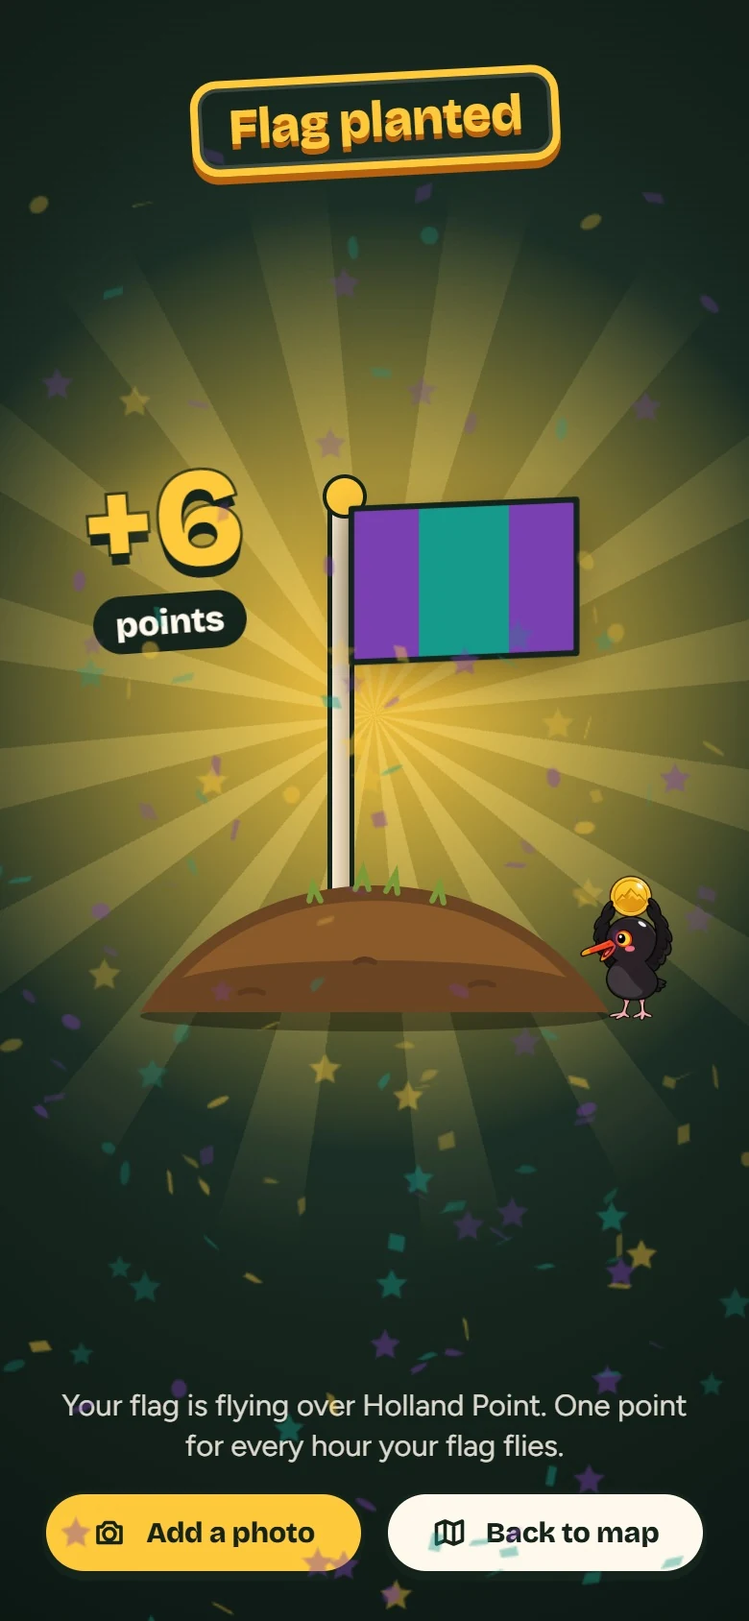
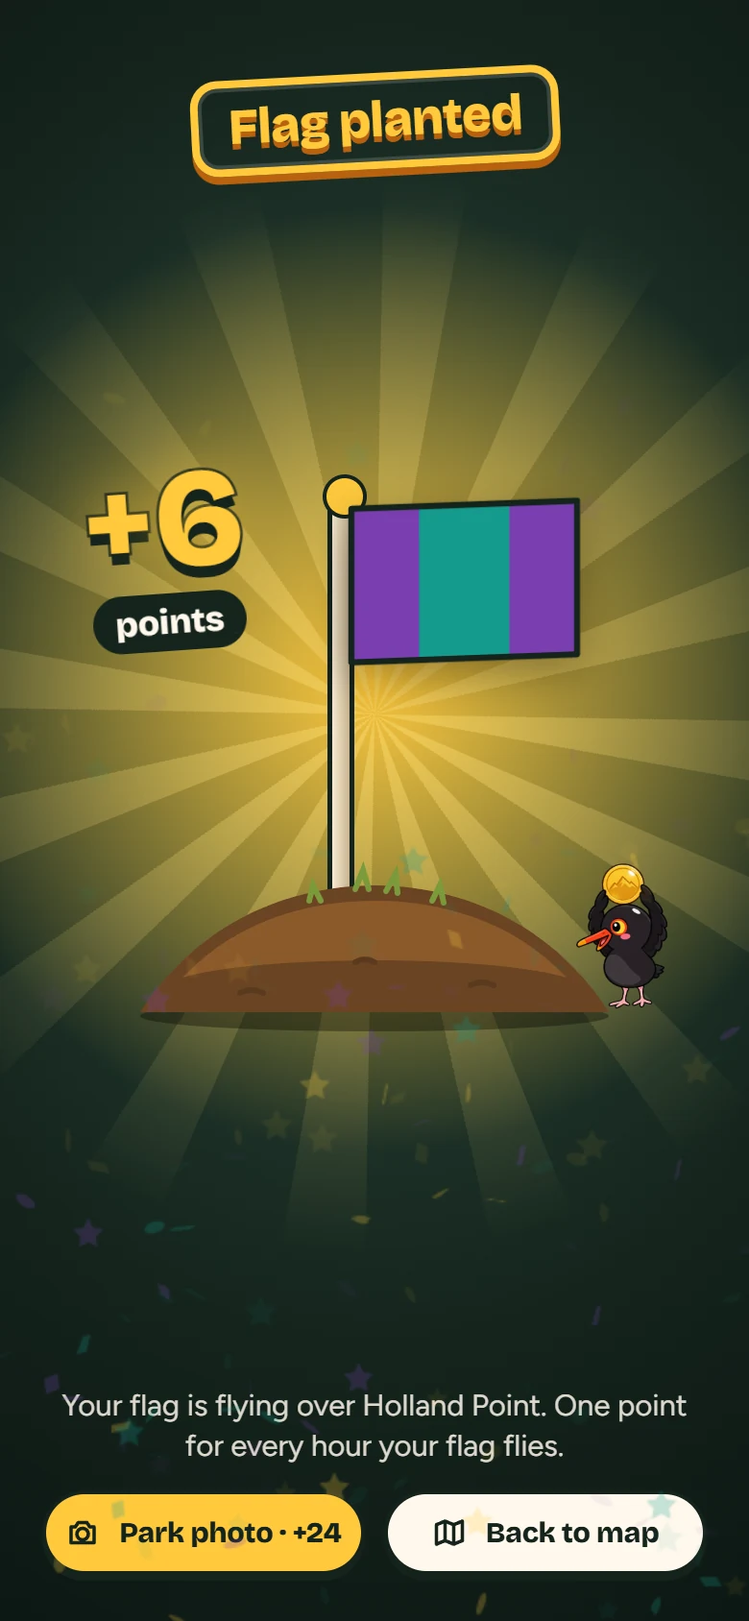
Walkers take parks: drop crews and personal photos from the landing
The app retired crews and every photo except the founder's photo of a park
(NathanPannell/parkdex#232, live in production at 7d2eba3), so the landing
page promised features that no longer exist.

- Homepage: step 4 "Bring your crew" becomes "Walk it again." with a new
  screen of a held park and its "Visit your flag" button. Step 3 says
  "another walker's park".
- App screens recaptured from parkdex main at 7d2eba3 on a local stack: the
  hero result and the plant, take and founder loops no longer show "Add a
  photo" or "Show crew code". The crew screen and loop are removed.
- Privacy policy, checked against the app's code on main: crews are retired
  (old memberships kept with the flag's history, handles no longer shown),
  the founder's photo is the only photo you take, visit photos from before
  October 22, 2026 stay private on the device and in R2 until account
  deletion, no new feedback screenshots, no park_claimed usage event.
- Delete-account page and the landing PRODUCT.md follow the same change.
- Tests: the homepage has no crew copy and every app screen it uses exists;
  the privacy policy no longer describes crews or visit photos as live.

diff --git a/privacy/index.html b/privacy/index.html
@@ -34,7 +34,7 @@
 
         <section aria-labelledby="scope-title">
           <h2 id="scope-title">Who this covers</h2>
-          <p>This policy covers the Parkdex web app, the public Parkdex Android app, and this landing page. It describes Parkdex as of app version 1.5.0.</p>
+          <p>This policy covers the Parkdex web app, the public Parkdex Android app, and this landing page. It describes Parkdex as of the October 22, 2026 app update, which retired crews and visit photos.</p>
           <p>Parkdex is made by Nathan Pannell. For privacy questions or help with your data, email <a href="mailto:contact@nathanpannell.com">contact@nathanpannell.com</a>.</p>
         </section>
 
@@ -47,8 +47,8 @@
           <h3>Your handle and what other players see</h3>
           <p>To plant flags you choose a handle, the name other players see, and a flag design. Before a handle is accepted it goes through the automated check described below.</p>
           <p>Your handle, flag, score, the badges you wear on your flag and the parks where your flag flies are public. Anyone can see them on the leaderboard and the park map, including people who are not signed in. Guest handles are public in the same way. If you found a park, its page shows your handle as founder, the founding date and your founding photo as the park’s cover.</p>
-          <p>When you join a crew at a park, Parkdex stores your membership, when you joined and the visit you joined with. Signed-in players can see the handles of a park’s crew members.</p>
-          <p>Friends you add by code or link, or crewmates you add by handle soon after a crew, see your handle, your flag and how many different parks you visited this week. They do not see which parks.</p>
+          <p>Parkdex no longer has crews. If you joined a crew before October 22, 2026, Parkdex keeps that membership, when you joined and the visit you joined with as part of the flag’s history. Other players no longer see crew members’ handles.</p>
+          <p>Friends you add by code or link see your handle, your flag and how many different parks you visited this week. They do not see which parks.</p>
           <h3>Your places and visits</h3>
           <p>Parkdex stores the places you save, your collections, visit dates, trail completions, the flags you plant and hold, and your badges so you can return to your collection and play the game.</p>
           <p>If you propose a park that is missing from the map, Parkdex stores its name, your note, the pin, any outline you draw, and the app version and platform you used. Proposals are not linked to your account.</p>
@@ -59,17 +59,17 @@
           <p>A successful founding does not keep your position. If the automated photo check rejects your founding photo or cannot decide, Parkdex keeps the photo, your position and the park outline for 24 hours so you can ask for a review. If you ask, they are copied into your review request. The photo is removed 90 days after the decision. The position and the rest of the request stay until your account is deleted.</p>
           <p>Your last known position is also kept on your device so the map can open where you were. You can change location permission in your device settings.</p>
           <h3>Photos</h3>
-          <p>When you save a visit photo, Parkdex creates a resized JPEG for your postcard. The stored JPEG is re-encoded without the original embedded photo metadata, such as GPS tags. Visit photos are stored privately.</p>
-          <p>A founding photo is checked and, once the park is founded, becomes the park’s public cover. Embedded photo metadata is removed before it is stored. Anyone can view it on the park page.</p>
+          <p>The only photo you take in Parkdex is the founding photo of a park. A founding photo is checked and, once the park is founded, becomes the park’s public cover. Embedded photo metadata is removed before it is stored. Anyone can view it on the park page.</p>
+          <p>Parkdex no longer takes visit photos, and the app no longer shows visit photos saved before October 22, 2026. Those older photos stay on your device. If you were signed in, a resized JPEG of each, re-encoded without embedded photo metadata such as GPS tags, stays in Parkdex’s private photo storage, and one still waiting to upload from before then can finish uploading. The stored copies are deleted with your account.</p>
           <h3>Automated checks</h3>
           <p>Parkdex uses OpenRouter to run automated content checks with an AI model. OpenRouter passes the content to the model’s provider, which is OpenAI by default. Founding photos are sent with the park’s name and kind. Handles are sent on their own. Park proposals are sent with their name, note, pin and nearby map context. Parkdex does not send your account identifier or email with these checks. The result of a check is stored with the park, photo check, review request or proposal it applies to.</p>
           <h3>Analytics and diagnostics</h3>
           <p>Parkdex uses PostHog for product analytics, to understand how the app is used and to find problems. When analytics is on, the app loads PostHog, which records the screens you view, taps and clicks, and named events such as starting to found a park. PostHog also records basic device details, such as the operating system, device type and screen size. The app’s PostHog setup allows session recordings of the app screen. Everything typed into fields is masked, but other text on screen, such as your handle or the email shown on your account screen, can appear in a recording.</p>
           <p>Each event carries a random installation identifier created by the app, the app version and build, and whether you use the web or Android app. After you sign in, events are also linked to your account identifier. PostHog receives your network address with app events and can use it to estimate your approximate location, such as your city and country. PostHog stores this data in the United States.</p>
-          <p>The app also sends Parkdex its own usage events when you view a park, open directions or claim a park, with the installation identifier, a session identifier and choices such as the maps app and travel mode. The Parkdex server also records each request: the route, its timing and result, your account identifier or installation identifier, the app version and any park involved. These records are kept in the Parkdex database for 90 days. Changes and game events from them are also sent to PostHog. Parkdex does not delete data from PostHog automatically.</p>
+          <p>The app also sends Parkdex its own usage events when you view a park or open directions, with the installation identifier, a session identifier and choices such as the maps app and travel mode. The Parkdex server also records each request: the route, its timing and result, your account identifier or installation identifier, the app version and any park involved. These records are kept in the Parkdex database for 90 days. Changes and game events from them are also sent to PostHog. Parkdex does not delete data from PostHog automatically.</p>
           <p>Parkdex does not add your photos or coordinates to analytics events. The installation identifier is not your Android ID or advertising ID. Parkdex has no advertising SDKs, and there is currently no in-app setting to turn analytics off.</p>
           <h3>Feedback from the app</h3>
-          <p>If you send feedback from the app, Parkdex stores your message, an email address if you add one, and a screenshot if you attach one. It also stores the app version, build, platform, screen and the park you were looking at. Screenshots are stored without embedded metadata.</p>
+          <p>If you send feedback from the app, Parkdex stores your message and an email address if you add one. New feedback can’t include a screenshot, but a screenshot already saved with an unsent draft can still be sent with it. Parkdex also stores the app version, build, platform, screen and the park you were looking at. Screenshots are stored without embedded metadata.</p>
           <p>Resend emails Nathan a notification with your message. It includes your email address only if you agree to be contacted, and it can send you a receipt. Feedback is not linked to your account, so deleting your account does not remove it. A report is deleted 90 days after Nathan archives it; until then it is kept.</p>
           <h3>Information on your device</h3>
           <p>Parkdex keeps sign-in information, your journal, preferences and pending uploads in browser or app-private storage. Guest progress uses a separate collection key. Pending photo copies let you retry an interrupted upload and are cleared after upload or sign-out.</p>
@@ -81,7 +81,7 @@
         <section aria-labelledby="providers-title">
           <h2 id="providers-title">Services that run Parkdex</h2>
           <p>Vercel hosts the websites and the app API, and Neon stores account, game, collection and feedback information. The Android beta and App Store waitlists use a separate Neon database.</p>
-          <p>Resend delivers account verification, password-recovery and feedback emails. Google handles Google sign-in when you choose it. The Parkdex Android app stores visit photos privately with Cloudflare R2 through the Parkdex API. Cloudflare also runs the daily job that removes expired data.</p>
+          <p>Resend delivers account verification, password-recovery and feedback emails. Google handles Google sign-in when you choose it. Visit photos saved before October 22, 2026 are stored privately with Cloudflare R2 through the Parkdex API. Cloudflare also runs the daily job that removes expired data.</p>
           <p>PostHog provides product analytics. OpenRouter runs the automated content checks. OpenStreetMap’s Nominatim service and public Overpass API servers provide park outlines when you found a park. Map tiles are served from Parkdex’s own storage. Directions open in Google Maps or Apple Maps with the park’s location.</p>
           <p>These services process information to provide hosting, storage, email, sign-in, analytics, content checks and maps. Hosting, storage, analytics and content checks can be outside Canada. Providers may keep their own operational or security logs.</p>
           <p>Parkdex does not sell your information or use it for advertising.</p>
@@ -92,7 +92,7 @@
           <p>Your account and collection have no automatic expiry. They remain until you remove the relevant information or your account-deletion request is fulfilled. Sign-in and verification tokens have expiry limits, but token expiry is not account deletion.</p>
           <p>A guest account whose session has ended, because you signed out or did not open Parkdex for a year, is deleted automatically 30 days later. Uninstalling the app does not end the session by itself.</p>
           <p>You can delete your account in the app, or <a href="/delete-account/">request account deletion</a> without installing the Android app. Nathan handles account-access or deletion requests that the automated flow cannot complete.</p>
-          <p>Account deletion removes your account, authentication records, handle, flag, badges, the flags you hold, your visits, collections, crew memberships, friend code and friendships, photo checks and review requests, and your photo references. Photo files are deleted from private storage. If storage deletion fails, a deletion record remains for manual cleanup. Nathan will not confirm full completion until that cleanup is verified.</p>
+          <p>Account deletion removes your account, authentication records, handle, flag, badges, the flags you hold, your visits, collections, any crew memberships from before October 22, 2026, friend code and friendships, photo checks and review requests, and your photo references. Photo files are deleted from private storage. If storage deletion fails, a deletion record remains for manual cleanup. Nathan will not confirm full completion until that cleanup is verified.</p>
           <p>Parks you founded stay on the map without your name, and their cover photo is removed. Park proposals stay, because they are not linked to your account.</p>
           <p>Some information stays after account deletion. Server request and usage records remain until they reach 90 days old. Analytics already sent to PostHog is not deleted. Feedback you sent stays until it is archived and purged. A deletion record with your account identifier and the deletion dates is kept to track the request.</p>
           <p>Deletion does not erase a separate guest history, files you downloaded or copies you shared elsewhere. Account-owned local data is cleared on the device completing the in-app deletion. Copies on an offline device cannot be erased remotely while it is offline; you can clear that device’s app data.</p>

diff --git a/index.html b/index.html
@@ -103,17 +103,17 @@
                 <span class="step__number" aria-hidden="true">3</span>
                 <div class="step__copy">
                   <h3>Take theirs.</h3>
-                  <p>Plant on a friend’s park to take it and earn points for the steal.</p>
+                  <p>Plant on another walker’s park to take it and earn points for the steal.</p>
                 </div>
                 <figure class="step__phone"><span class="device-frame device-frame--iphone-16-max device-frame--parkdex-asset"><span class="device-frame__screen"><span class="device-frame__media"><img src="/images/app/app-take.webp" width="780" height="1688" loading="lazy" alt="Taking Moss Rocks from @salish_sky: your flag goes up in place of theirs" data-motion="/images/app/motion/take.webp" /></span></span><span class="device-frame__hardware" aria-hidden="true"><img src="/frames/parkdex-phone-frame.webp" width="1252" height="2604" alt="" /></span></span></figure>
               </li>
-              <li class="step" data-step="crew">
+              <li class="step" data-step="walk">
                 <span class="step__number" aria-hidden="true">4</span>
                 <div class="step__copy">
-                  <h3>Bring your crew.</h3>
-                  <p>Arrive together and hold the park as a crew.</p>
+                  <h3>Walk it again.</h3>
+                  <p>Visit your flag on tomorrow’s walk to keep it flying.</p>
                 </div>
-                <figure class="step__phone"><span class="device-frame device-frame--iphone-16-max device-frame--parkdex-asset"><span class="device-frame__screen"><span class="device-frame__media"><img src="/images/app/app-crew.webp" width="780" height="1688" loading="lazy" alt="Bring your crew: a QR code and crew code for friends to join the flag at Holland Point" data-motion="/images/app/motion/crew.webp" /></span></span><span class="device-frame__hardware" aria-hidden="true"><img src="/frames/parkdex-phone-frame.webp" width="1252" height="2604" alt="" /></span></span></figure>
+                <figure class="step__phone"><span class="device-frame device-frame--iphone-16-max device-frame--parkdex-asset"><span class="device-frame__screen"><span class="device-frame__media"><img src="/images/app/app-walk.webp" width="780" height="1688" loading="lazy" alt="Clover Point Park, held for 12 days: your park, with a Visit your flag button" data-motion="/images/app/motion/walk.webp" /></span></span><span class="device-frame__hardware" aria-hidden="true"><img src="/frames/parkdex-phone-frame.webp" width="1252" height="2604" alt="" /></span></span></figure>
               </li>
             </ol>
             <div class="play__stage" aria-hidden="true">
@@ -122,7 +122,7 @@
                   <img data-screen="go" src="/images/app/app-arrive.webp" width="780" height="1688" loading="lazy" alt="" data-motion="/images/app/motion/go.webp" />
                   <img data-screen="hold" src="/images/app/app-your-parks.webp" width="780" height="1688" loading="lazy" alt="" data-motion="/images/app/motion/hold.webp" />
                   <img data-screen="take" src="/images/app/app-take.webp" width="780" height="1688" loading="lazy" alt="" data-motion="/images/app/motion/take.webp" />
-                  <img data-screen="crew" src="/images/app/app-crew.webp" width="780" height="1688" loading="lazy" alt="" data-motion="/images/app/motion/crew.webp" />
+                  <img data-screen="walk" src="/images/app/app-walk.webp" width="780" height="1688" loading="lazy" alt="" data-motion="/images/app/motion/walk.webp" />
                 </span></span><span class="device-frame__hardware"><img src="/frames/parkdex-phone-frame.webp" width="1252" height="2604" alt="" /></span></span>
               </div>
             </div>

diff --git a/tests/privacy-copy.test.ts b/tests/privacy-copy.test.ts
@@ -6,8 +6,18 @@ const privacyPage = await readFile(new URL("../privacy/index.html", import.meta.
 
 test("privacy policy covers the public Android app and describes its photo storage", () => {
   assert.match(privacyPage, /This policy covers the Parkdex web app, the public Parkdex Android app, and this landing page\./);
-  assert.match(privacyPage, /The Parkdex Android app stores visit photos privately with Cloudflare R2 through the Parkdex API\./);
+  assert.match(privacyPage, /Visit photos saved before October 22, 2026 are stored privately with Cloudflare R2 through the Parkdex API\./);
   assert.doesNotMatch(privacyPage, /the test version being prepared for Android|The Android test version/i);
+});
+
+test("privacy policy describes crews and visit photos as retired, not as live features", () => {
+  assert.match(privacyPage, /Parkdex no longer has crews\./);
+  assert.match(privacyPage, /The only photo you take in Parkdex is the founding photo of a park\./);
+  assert.match(privacyPage, /Parkdex no longer takes visit photos/);
+  assert.doesNotMatch(
+    privacyPage,
+    /When you join a crew|crewmates you add|When you save a visit photo|postcard|claim a park|a screenshot if you attach one/,
+  );
 });
 
 test("privacy policy describes the App Store list and the Google-run Android beta", () => {
@@ -47,4 +57,5 @@ test("delete-account page lists what stays after deletion, like the privacy poli
   const deletePage = await readFile(new URL("../delete-account/index.html", import.meta.url), "utf8");
   assert.match(deletePage, /analytics already sent to PostHog and feedback you sent are not deleted/);
   assert.match(deletePage, /Parks you founded stay on the map without your name or cover photo\./);
+  assert.match(deletePage, /any crew memberships or visit photos from before October 22, 2026/);
 });

diff --git a/delete-account/index.html b/delete-account/index.html
@@ -53,7 +53,7 @@
 
           <section class="support-section" aria-labelledby="data-title">
             <h2 id="data-title">What is deleted</h2>
-            <p>Account deletion is permanent. It removes your Parkdex account, sign-in sessions, connected sign-in records, handle, flags, badges, crew memberships, friendships, saved collections, visits and associated photo records. Parks you founded stay on the map without your name or cover photo.</p>
+            <p>Account deletion is permanent. It removes your Parkdex account, sign-in sessions, connected sign-in records, handle, flags, badges, friendships, saved collections, visits, any crew memberships or visit photos from before October 22, 2026, and associated photo records. Parks you founded stay on the map without your name or cover photo.</p>
             <p>Private photo files are deleted from storage. If storage deletion fails, a record remains so that cleanup can be retried. We will not describe unfinished photo cleanup as complete.</p>
             <p>Separate guest history, downloaded or shared copies, and copies on offline devices are outside this account deletion. Server request records stay until they are 90 days old, analytics already sent to PostHog and feedback you sent are not deleted, and limited network-security records and provider backups or logs may remain. <a href="/privacy/#retention-title">Read the retention details</a>.</p>
           </section>

diff --git a/tests/home-copy.test.ts b/tests/home-copy.test.ts
@@ -1,0 +1,16 @@
+import assert from "node:assert/strict";
+import { existsSync, readFileSync } from "node:fs";
+import test from "node:test";
+
+const page = readFileSync(new URL("../index.html", import.meta.url), "utf8");
+
+test("the homepage pitches solo walkers, not the retired crews", () => {
+  assert.doesNotMatch(page, /crew/i);
+  assert.match(page, /data-step="walk"/);
+});
+
+test("every app screen on the homepage exists in public/", () => {
+  const paths = [...page.matchAll(/(?:src|data-motion)="(\/images\/app\/[^"]+)"/g)].map((match) => match[1]);
+  assert.ok(paths.length > 0);
+  for (const path of paths) assert.ok(existsSync(new URL(`../public${path}`, import.meta.url)), path);
+});

diff --git a/public/images/app/motion/README.md b/public/images/app/motion/README.md
@@ -1,45 +1,18 @@
 # Parkdex app motion clips for the landing page
 
-Recorded 2026-10-16 from `NathanPannell/parkdex-kip` at `origin/staging` **ba11e311b0d248584641a6711db11817190a103f** (#215). This is the same build, local data and accounts as the stills in `../app/`.
+Recorded 2026-10-22 from `NathanPannell/parkdex` at `origin/main` **7d2eba3** (#233), with the same build, local data and accounts as the stills in `../` (see that README for the stack, seed and flags). `leaderboard.webp` is older: recorded 2026-10-16 at `ba11e311` (#215).
 
-- **Clips:** animated WebP, 540x1170, looping forever (`loop: 0`). The first frame of each loop is captured from about the tenth of a second before the interaction starts. The last frame holds about 1 s before the loop restarts.
-- **Frame rate:** the frames are sampled at 11 fps. Frames that did not change are merged into one longer frame, so the effective average is 7.5 to 9.5 fps.
-- **Stills:** each clip has a `*-still.webp` at 780x1688 (WebP quality 88), taken from the full-resolution capture.
-
-## How they were made
-
-- **Stack:** everything ran locally. `npm run local:api` served the real API against a throwaway loopback PostgreSQL 18 database (`kip_qa_local`), and the Vite dev server ran on `http://127.0.0.1:5190`. Parks came from the public staging catalogue, and map tiles and park art from the public content CDN.
-- **Feature flags:** web build 0 had `crews`, `friends` and `parkProposals` on and **`badges` off**.
-- **Account:** signed in as the local seed account `tester1@example.test`, shown as `@fern_finn`. Every other player is a fictional `@example.test` row that exists only in that database.
-- **Friends tab:** for the Friends tab in `leaderboard.webp`, `@fern_finn` was made friends with oakbay_ollie, lark_and_lu, cedar_kai and beacon_bea in the local database.
-- **Interactions:** the plant and the take are real presses and holds in the app. After each recording, the local database was reset to the state of the stills.
-- **No overlays:** no demo overlays, toasts or Kip's Tips appear. Tips were dismissed before each recording started.
-- **Recording:** Playwright with chrome-headless-shell on GPU (ANGLE D3D11), a 390x844 phone viewport at device scale 2, an Android user agent and touch. Frames were grabbed with a CDP `Page.captureScreenshot` loop at about 16 to 25 fps.
-- **Why not screencast:** CDP screencast frames came out at the wrong size after the app's fullscreen request. The capture harness stubbed `requestFullscreen` so the viewport stays at 390x844.
-- **Hero clip:** removed; the hero now shows the still `app-planted.webp`.
-- **Assembly:** frames were resized with Lanczos and encoded with Pillow's libwebp (quality 70, 60 for the hero, keyframes every 4 to 5 frames). Inter-frame encoding keeps the dark plant scenes free of blocking.
+- **Clips:** animated WebP, 540x1170, looping forever, sampled at 11 fps, holding the last frame about 1 s. Each is under 1 MB: quality 70 for hold and walk, 67 for go, 66 for founder and 62 for take.
+- **Interactions:** the plant, take and visit are real taps in the app. The local database was re-seeded before each recording.
+- **Recording:** Playwright with Chromium, a 390x844 phone viewport at device scale 2, an Android user agent and touch.
 
 ## Files
 
-| File | What it shows | Duration | fps | Size | Alt text |
-| --- | --- | --- | --- | --- | --- |
-| `hero-still.webp` | The wide end frame | – | – | 155 KB | Same as above. |
-| `go.webp` | At the empty Holland Point: the "Welcome to Holland Point" arrival card, a tap on "Plant your flag", the press-and-hold ring filling, the flag slamming into the mound with dirt and confetti, the points counting up to +6 and "Flag planted". | 6.9 s | 11 | 883 KB | Arriving at Holland Point, the player presses and holds "Plant your flag". Their flag goes up and the screen says "Flag planted, +6 points". |
-| `go-still.webp` | The "Flag planted +6" result | – | – | 68 KB | "Flag planted", +6 points. "Your flag is flying over Holland Point." |
-| `hold.webp` | A tap on the score chip on the map opens My Dex > Your flags. The score card counts up to 690 points and the held parks slide in with their flag ages. | 3.8 s | 11 | 502 KB | Tapping the score chip opens Your flags: @fern_finn, 4 parks held, 690 points. Clover Point Park 12d, Beacon Hill Park 7d, Cecelia Ravine Park 5d, Summit Park 3d. |
-| `hold-still.webp` | The Your flags screen | – | – | 72 KB | Same as above. |
-| `take.webp` | **The takeover.** At Moss Rocks, "Take it from @salish_sky" with the hold ring filling. @salish_sky's flag is knocked out and spins away, @fern_finn's flag slams in, the points count to +13, and "You took Moss Rocks from @salish_sky" appears. | 6.7 s | 11 | 977 KB | The player holds "Take it from @salish_sky". The rival's flag is knocked off Moss Rocks and their own flag lands: "You took Moss Rocks from @salish_sky", +13 points. |
-| `take-still.webp` | Mid-takeover: @salish_sky's flag flying off the mound as @fern_finn's flag comes down | – | – | 42 KB | Take it from @salish_sky: the rival's flag tumbles off Moss Rocks while the player's flag comes down to replace it. |
-| `crew.webp` | A tap on the just-planted Holland Point park card opens the sheet: "Your flag · Planted today · protected 57 min · Just you so far". A tap on "Show crew code" slides up the crew code sheet with its QR code, code and countdown. | 4.9 s | 11 | 621 KB | Opening Holland Point and tapping "Show crew code": "Bring your crew", QR code, code C26-PYX, 57 min left. |
-| `crew-still.webp` | The crew code sheet | – | – | 69 KB | "Bring your crew", crew code C26-PYX for Holland Point, 57 min left, Share the link. |
-| `founder.webp` | The Holland Point sheet scrolls to "No founder yet" and "Become the founder +24". A tap starts the founding flow: a radar scan ("Checking you're inside Holland Point Park…"), then the park outline is highlighted with "You're in Holland Point Park" and "Take the photo". | 6.0 s | 11 | 902 KB | From the park sheet, "Become the founder, +24" opens the founding flow. It scans, highlights Holland Point Park's outline and offers "Take the photo". |
-| `founder-still.webp` | The outline highlighted, ready for the photo | – | – | 81 KB | Become the founder: "Take its photo to be the founder." You're in Holland Point Park. Button: Take the photo. |
-| `leaderboard.webp` | A tap on Leaders: the podium rises (1 @salish_sky 842, 2 @island_ivy 710, 3 @fern_finn 690) and the ranked list slides in. Then Friends (parks this week: @fern_finn (you) 2, @beacon_bea, @cedar_kai, @lark_and_lu, @oakbay_ollie 1 each) and back to Everyone. | 6.0 s | 11 | 875 KB | Leaderboard. Everyone: @salish_sky 842, @island_ivy 710, @fern_finn 690, then @cedar_kai 523, @gorge_runner 512, @wren_walks 283. Friends tab: parks this week, @fern_finn (you) first with 2. |
-| `leaderboard-still.webp` | The Everyone board | – | – | 82 KB | Leaderboard, Everyone: 1 @salish_sky 842 pts, 2 @island_ivy 710 pts, 3 @fern_finn 690 pts; @cedar_kai 523, @gorge_runner 512, @wren_walks 283, @lark_and_lu 212, @oakbay_ollie 180. |
-
-## Notes
-
-- Points tick up by the hour, so they are slightly higher than in `../app/` (690 rather than 686).
-- `go.webp` and `take.webp` run about 6.7 to 6.9 s, a little over the 6 s target. The hold itself takes 1.1 s and the result headline lands about 4 s after release, so cutting them shorter would drop the arrival or the result.
-- The take's per-part breakdown ("+4 for the take, +9 for those 9 days") is screen-reader only in this build, so the clip shows the +13 count-up.
-- The crew-join pennant raise needs a second signed-in device inside the park within the protected hour, so it was not recorded. `crew.webp` shows the crew code sheet instead.
+| File | What it shows | Duration | Size | Alt text |
+| --- | --- | --- | --- | --- |
+| `go.webp` | The "Welcome to Holland Point" arrival card, a tap on "Plant your flag", the flag slamming into the mound, points counting to +6, then "Flag planted" with "Park photo · +24" and "Back to map". | 6.9 s | 990 KB | Arriving at Holland Point, the player taps "Plant your flag". Their flag goes up and the screen says "Flag planted, +6 points". |
+| `hold.webp` | A tap on the score chip on the map opens My Dex › Your flags: the score counts up to 684 and the four held parks appear. | 4.0 s | 629 KB | Tapping the score chip opens Your flags: @fern_finn, 4 parks held, 684 points. Clover Point Park 12d, Beacon Hill Park 7d, Cecelia Ravine Park 5d, Summit Park 3d. |
+| `take.webp` | "Welcome to Moss Rocks" ("@salish_sky's flag has flown here for 9 days"), a tap on "Take it from @salish_sky", the rival's flag knocked out, @fern_finn's flag lands, +13, "You took Moss Rocks from @salish_sky". | 6.9 s | 984 KB | The player taps "Take it from @salish_sky". The rival's flag is knocked off Moss Rocks and their own flag lands: "You took Moss Rocks from @salish_sky", +13 points. |
+| `founder.webp` | The Holland Point page opens, a tap on "Become the founder +24", the scan ("Checking you're inside Holland Point Park…"), then the outline highlighted with "You're in Holland Point Park" and "Take the photo". | 6.0 s | 950 KB | From the park page, "Become the founder, +24" opens the founding flow. It scans, highlights Holland Point Park's outline and offers "Take the photo". |
+| `walk.webp` | Clover Point's page, a tap on "Visit your flag", then "Your flag is still flying", +1 point, "Clover Point is still yours." | 6.2 s | 540 KB | At Clover Point, held for 12 days, the player taps "Visit your flag": "Your flag is still flying", +1 point. |
+| `leaderboard.webp` | (2026-10-16) A tap on Leaders: the podium rises and the ranked list slides in, then the Friends tab and back to Everyone. | 6.0 s | 875 KB | Leaderboard. Everyone: @salish_sky 842, @island_ivy 710, @fern_finn 690, then @cedar_kai 523, @gorge_runner 512, @wren_walks 283. Friends tab: parks this week, @fern_finn (you) first with 2. |

diff --git a/public/images/app/README.md b/public/images/app/README.md
@@ -1,34 +1,33 @@
 # Parkdex app screenshots for the landing page
 
-Captured 2026-10-16 from `NathanPannell/parkdex-kip` at `origin/staging` **ba11e311b0d248584641a6711db11817190a103f** ("Record the Nova Scotia production load (2026-10-14) (#215)").
+Recaptured 2026-10-22 from `NathanPannell/parkdex` at `origin/main` **7d2eba3** (#233, which promoted #232: crews and personal photos retired, the park page rebuilt around one big button). `app-leaderboard.webp` is older: it was captured 2026-10-16 at `ba11e311` (#215) and shows nothing that has since changed.
 
 All files are 780x1688 WebP (quality 88): a 390x844 phone viewport at device scale 2, no browser chrome.
 
 ## How they were made
 
-- The app ran entirely on this machine: `npm run local:api` (the real API worker) against a throwaway loopback PostgreSQL 18 cluster (database `kip_qa_local`), with the Vite dev server on `http://127.0.0.1:5190` proxying `/api` to it. Parks came from the public staging catalogue snapshot, map tiles and park art from the public content CDN.
-- Feature flags came from a local `kip_app_config.builds` row for web build 0: `crews` on, `friends` on, `parkProposals` on, **`badges` off**. No badge shelf, unlocks or patches appear in any shot.
-- Signed in as the local seed account `tester1@example.test` (from `scripts/local-stack.seed.json`), with its handle changed to `fern_finn` in the local database. The other players (`oakbay_ollie` is seed account `tester2`; `salish_sky`, `island_ivy`, `cedar_kai`, `gorge_runner`, `wren_walks`, `lark_and_lu`, `beacon_bea` are extra `@example.test` rows) are fictional and exist only in that throwaway database.
-- Game history was seeded with SQL by calling the app's own `kip_game.record_visit_with_badges` and `kip_game.join_crew_with_badges` with backdated times, so flag ages, points and the Beacon Hill crew (oakbay_ollie, fern_finn, lark_and_lu) are computed by the real rules.
-- The plant and take were done in the app with a real hold-to-plant; the player's position was set through the app's saved last location (no demo-tools overlay). Kip's Tips were dismissed before each capture.
-- Capture: Playwright (`playwright-core`) driving chrome-headless-shell, Android Chrome user agent, `isMobile`/`hasTouch`, geolocation granted, `America/Vancouver` time zone; converted to WebP with sharp.
+- The app ran entirely on this machine: `npm run local:api -- --content` (the real API worker) against a throwaway loopback PostgreSQL 18 cluster (a `kip_qa_*` database), with the Vite dev server on `http://127.0.0.1:5190` proxying `/api` to it ([docs/local-stack.md](https://github.com/NathanPannell/parkdex/blob/main/docs/local-stack.md)). Parks came from the public staging catalogue, map tiles and park art from the public content CDN.
+- Feature flags came from a local `kip_app_config.builds` row for web build 0: `friends` and `parkProposals` on, `crews` and **`badges` off**. No badge shelf, unlocks or patches appear.
+- Signed in as the local seed account `tester1@example.test`, shown as `@fern_finn`. The other players (`salish_sky`, `island_ivy`, `cedar_kai`, `gorge_runner`, `wren_walks`, `lark_and_lu`, `oakbay_ollie`, `beacon_bea`) are fictional `@example.test` rows that exist only in that throwaway database.
+- Game history was seeded with the app's own `kip_game.record_visit_with_badges` and backdated times, so flag ages and points come from the real rules: @fern_finn holds Clover Point (12 days), Beacon Hill (7), Cecelia Ravine (5) and Summit (3); @salish_sky has held Moss Rocks for 9 days; Holland Point is empty and has no founder. The history was re-seeded before each capture.
+- The plant, take and visit were real taps in the app (one tap now starts them; there is no press-and-hold). The player's position was set through the app's saved last location. Kip's Tips were dismissed. The dev build's "Demo: teleport here" link, which hosted builds don't have, was hidden with injected CSS; nothing else was altered.
+- Capture: Playwright driving Chromium, Android Chrome user agent, `isMobile`/`hasTouch`, geolocation granted, `America/Vancouver` time zone; converted to WebP with sharp.
 
 ## Files
 
-`app-take.webp` (the take step's still) is a frame of the takeover animation; see `motion/README.md`. The moving loops for every homepage screen are in `motion/`.
-
+The moving loops for the homepage screens are in `motion/`.
 
 | File | Screen and state | Alt text |
 | --- | --- | --- |
-| `app-planted.webp` | Result right after planting at the empty Holland Point (the `go-still` frame from `motion/`). Used in the hero. | Flag planted: your flag flying over Holland Point, with Kip cheering beside it. |
-| `app-leaderboard.webp` | Leaders, Everyone tab: podium and ranked list. | Leaderboard, Everyone. 1 @salish_sky 840 pts, 2 @island_ivy 708 pts, 3 @fern_finn 686 pts; then @cedar_kai 521, @gorge_runner 511, @wren_walks 281, @lark_and_lu 209, @oakbay_ollie 179. |
-| `app-crew.webp` | Crew code sheet right after planting at Holland Point: QR code, 6-character code and the protected-hour countdown. | "Bring your crew" crew code for Holland Point: K4Z-D3P, 53 min left. "Anyone in the crew can show this code." Button: Share the link. |
-| `app-founder.webp` | Holland Point Park sheet just after planting: your flag (protected, Show crew code), "No founder yet" and the "Become the founder +24" prompt. | Holland Point Park. Your flag, planted today, protected · 53 min. No founder yet. "Become the founder: Take its first photo. It becomes the park's cover." +24. |
-| `app-your-parks.webp` | My Dex, Your flags tab: score card and the held parks with flag ages. | My Dex, Your flags. @fern_finn, 4 parks held, 686 points. Clover Point Park 12d (your longest-flying flag), Beacon Hill Park 7d, Cecelia Ravine Park 5d, Summit Park 3d. |
+| `app-planted.webp` | Result right after planting at the empty Holland Point. Used in the hero. | Flag planted: your flag flying over Holland Point, with Kip cheering beside it. |
 | `app-arrive.webp` | Arrival card inside an empty park, before planting. | "Welcome to Holland Point", Inside the boundary. "Nobody holds this park yet. Plant your flag and earn a point every hour it flies." Button: Plant your flag. Kip: "KLEEP! You made it!" |
+| `app-your-parks.webp` | My Dex, Your flags tab: score card and the held parks with flag ages. | My Dex, Your flags. @fern_finn, 4 parks held, 684 points. Clover Point Park 12d (your longest-flying flag), Beacon Hill Park 7d, Cecelia Ravine Park 5d, Summit Park 3d. |
+| `app-take.webp` | Mid-takeover at Moss Rocks: the rival's flag tips off as @fern_finn's comes in. | Take it from @salish_sky: the rival's flag tumbles off Moss Rocks while the player's flag comes in to replace it. |
+| `app-founder.webp` | Holland Point Park page just after planting: "Your park", "Become the founder +24", no founder yet. | Holland Point Park, just planted: "Your park, your flag went up today." No founder yet. Button: Become the founder, +24. |
+| `app-walk.webp` | Clover Point Park page, a park @fern_finn has held for 12 days, with the main button "Visit your flag". | Clover Point Park: "Your park, yours for 12 days." Button: Visit your flag. |
+| `app-leaderboard.webp` | Leaders, Everyone tab: podium and ranked list (2026-10-16 capture). | Leaderboard, Everyone. 1 @salish_sky 840 pts, 2 @island_ivy 708 pts, 3 @fern_finn 686 pts; then @cedar_kai 521, @gorge_runner 511, @wren_walks 281, @lark_and_lu 209, @oakbay_ollie 179. |
 
 ## Notes
 
-- The take result's per-part breakdown ("KLEEP! +4 for the take, +9 for those 9 days!") is screen-reader only in this build (`.plant__cheer` is visually hidden); the screen shows the +13 total.
-- The founder celebration itself (after the photo check) cannot be reached locally: the photo check needs the OpenRouter decision API. The founder shot shows the prompt instead.
-- Points and minutes reflect capture time (a flag earns 1 point per hour), so the numbers differ slightly between shots taken before and after the plant and take.
+- The result screens' Kip cheer ("KLEEP! Flag's up! +6") is screen-reader only in this build; the screen shows the points count-up.
+- Points reflect capture time (a flag earns 1 point per hour), so totals differ slightly between shots and from the older leaderboard.

diff --git a/PRODUCT.md b/PRODUCT.md
@@ -12,10 +12,10 @@ Delegated. A standalone static web application with one Vercel serverless signup
 People exploring Vancouver Island and nearby islands who want to discover parks and keep a record of visits.
 
 ## Product Purpose
-Introduce the Parkdex flag game: go to a real park, plant your flag, earn a point every hour it flies, take parks from other players, hold them as a crew and found new ones. Send Android visitors through the self-service beta (Parkdex Testers Google Group, then Google Play testing opt-in and install), register email addresses for the App Store waitlist, and allow direct waitlist removal, which also clears the retired Android beta list.
+Introduce the Parkdex flag game: go to a real park, plant your flag, earn a point every hour it flies, take parks from other walkers and found new ones with a photo of the park. Send Android visitors through the self-service beta (Parkdex Testers Google Group, then Google Play testing opt-in and install), register email addresses for the App Store waitlist, and allow direct waitlist removal, which also clears the retired Android beta list.
 
 ## Positioning
-Parkdex is capture the flag for every park around you. Every park on the map can fly one player's flag; you take it by standing inside the boundary. It is social: handles, generated flags, crews, friends and leaderboards. Badges are off in production and are not part of the pitch.
+Parkdex is capture the flag for every park around you. Every park on the map can fly one player's flag; you take it by standing inside the boundary. It is for dog walkers who walk the same local parks every day and take them from each other: handles, generated flags, friends and leaderboards. Crews and personal photos are retired in the app; the only photo is the founder's photo of a park. Badges are off in production and are not part of the pitch.
 
 ## Capabilities and Constraints
 Use real app screenshots in phone and laptop mockups. Android is in open beta: visitors join the Parkdex Testers Google Group, then opt in on Google Play. iPhone has an App Store waitlist with no promised launch date. Keep the landing application independent of the current Parkdex app. The cutover target is landing at `parkdex.app` with the production app at `web.parkdex.app`, and landing at `staging.parkdex.app` with the staging app at `staging.web.parkdex.app`. Store signup email durably in the landing environment's own database and do not wake the existing app database.
